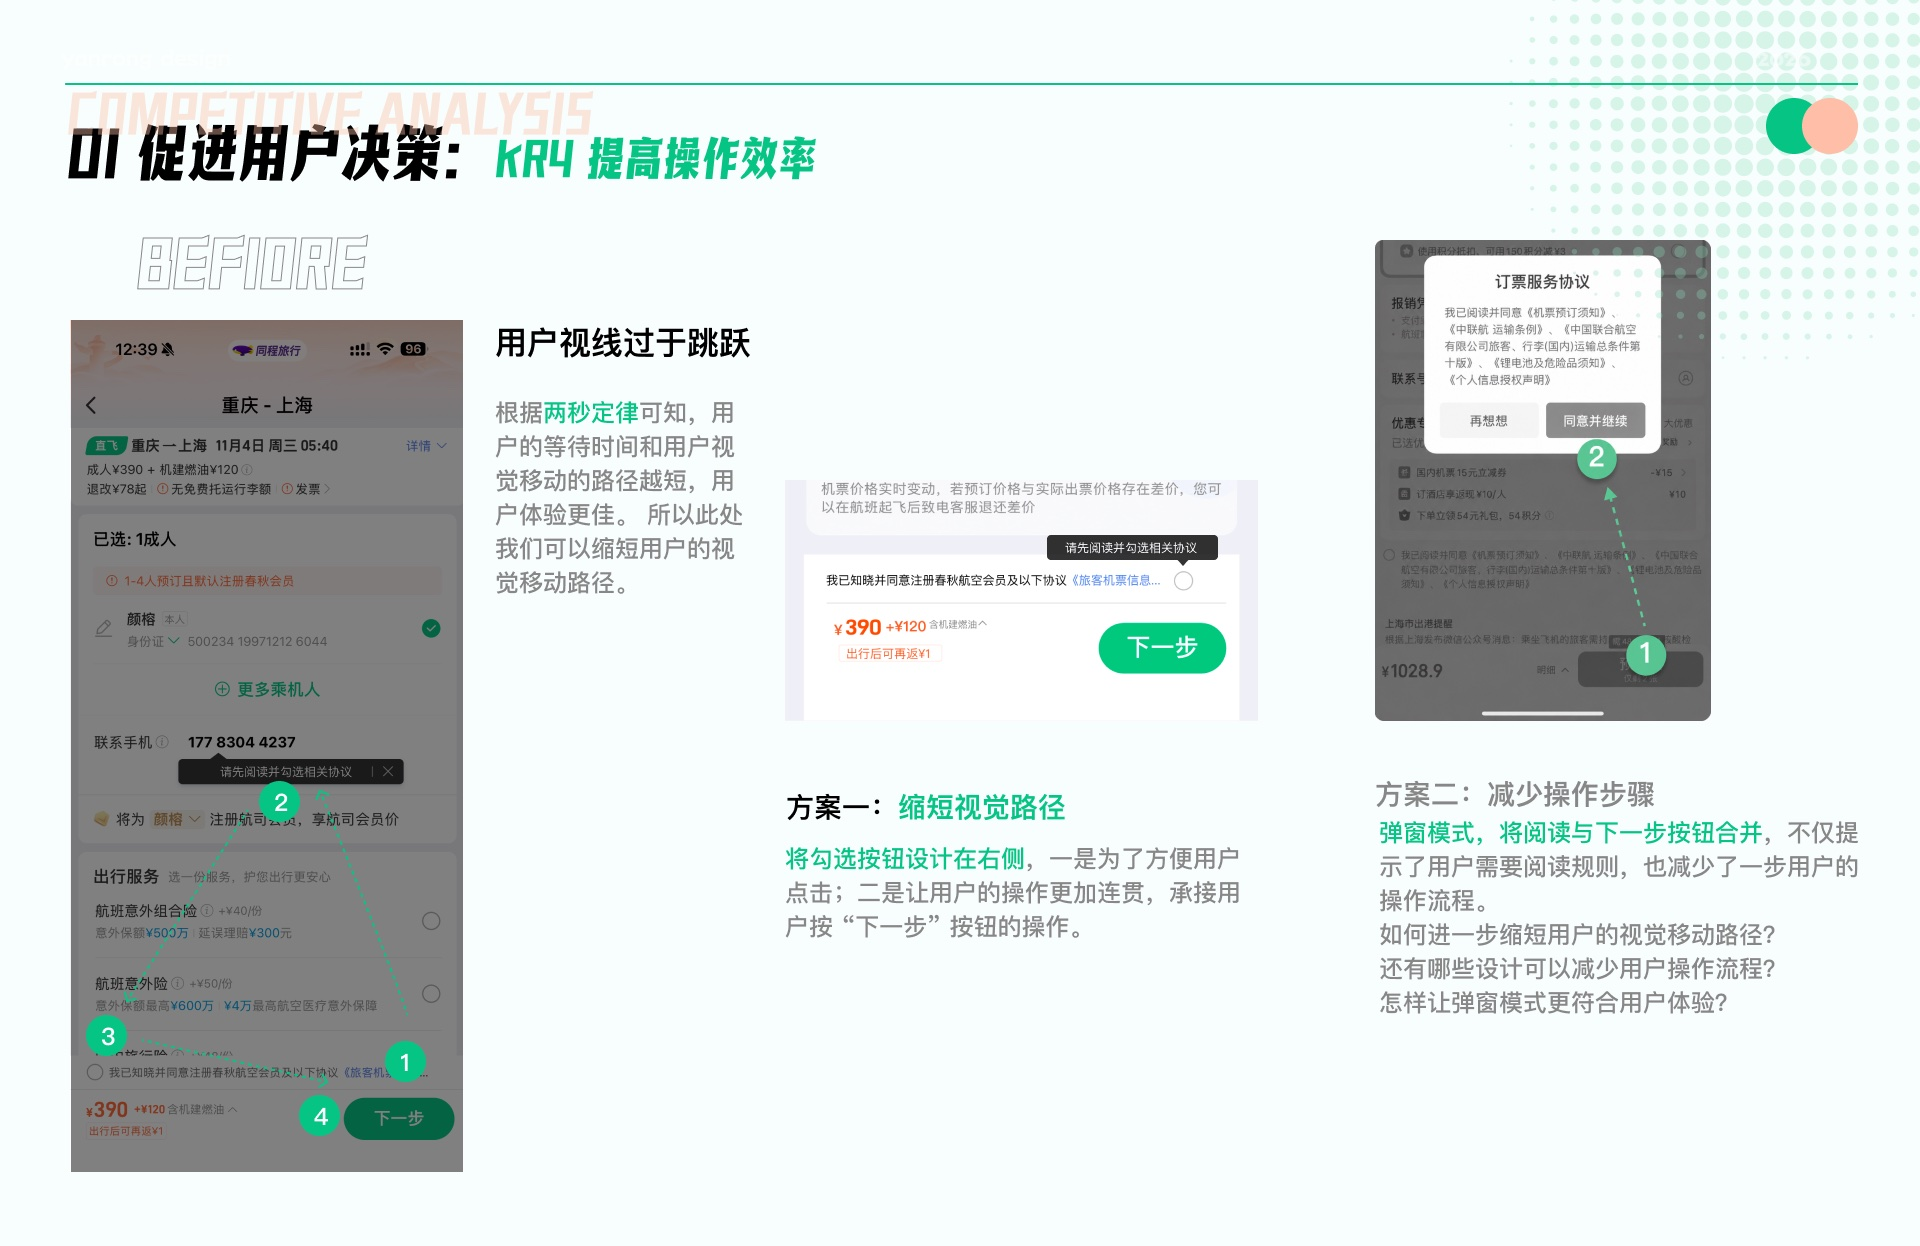
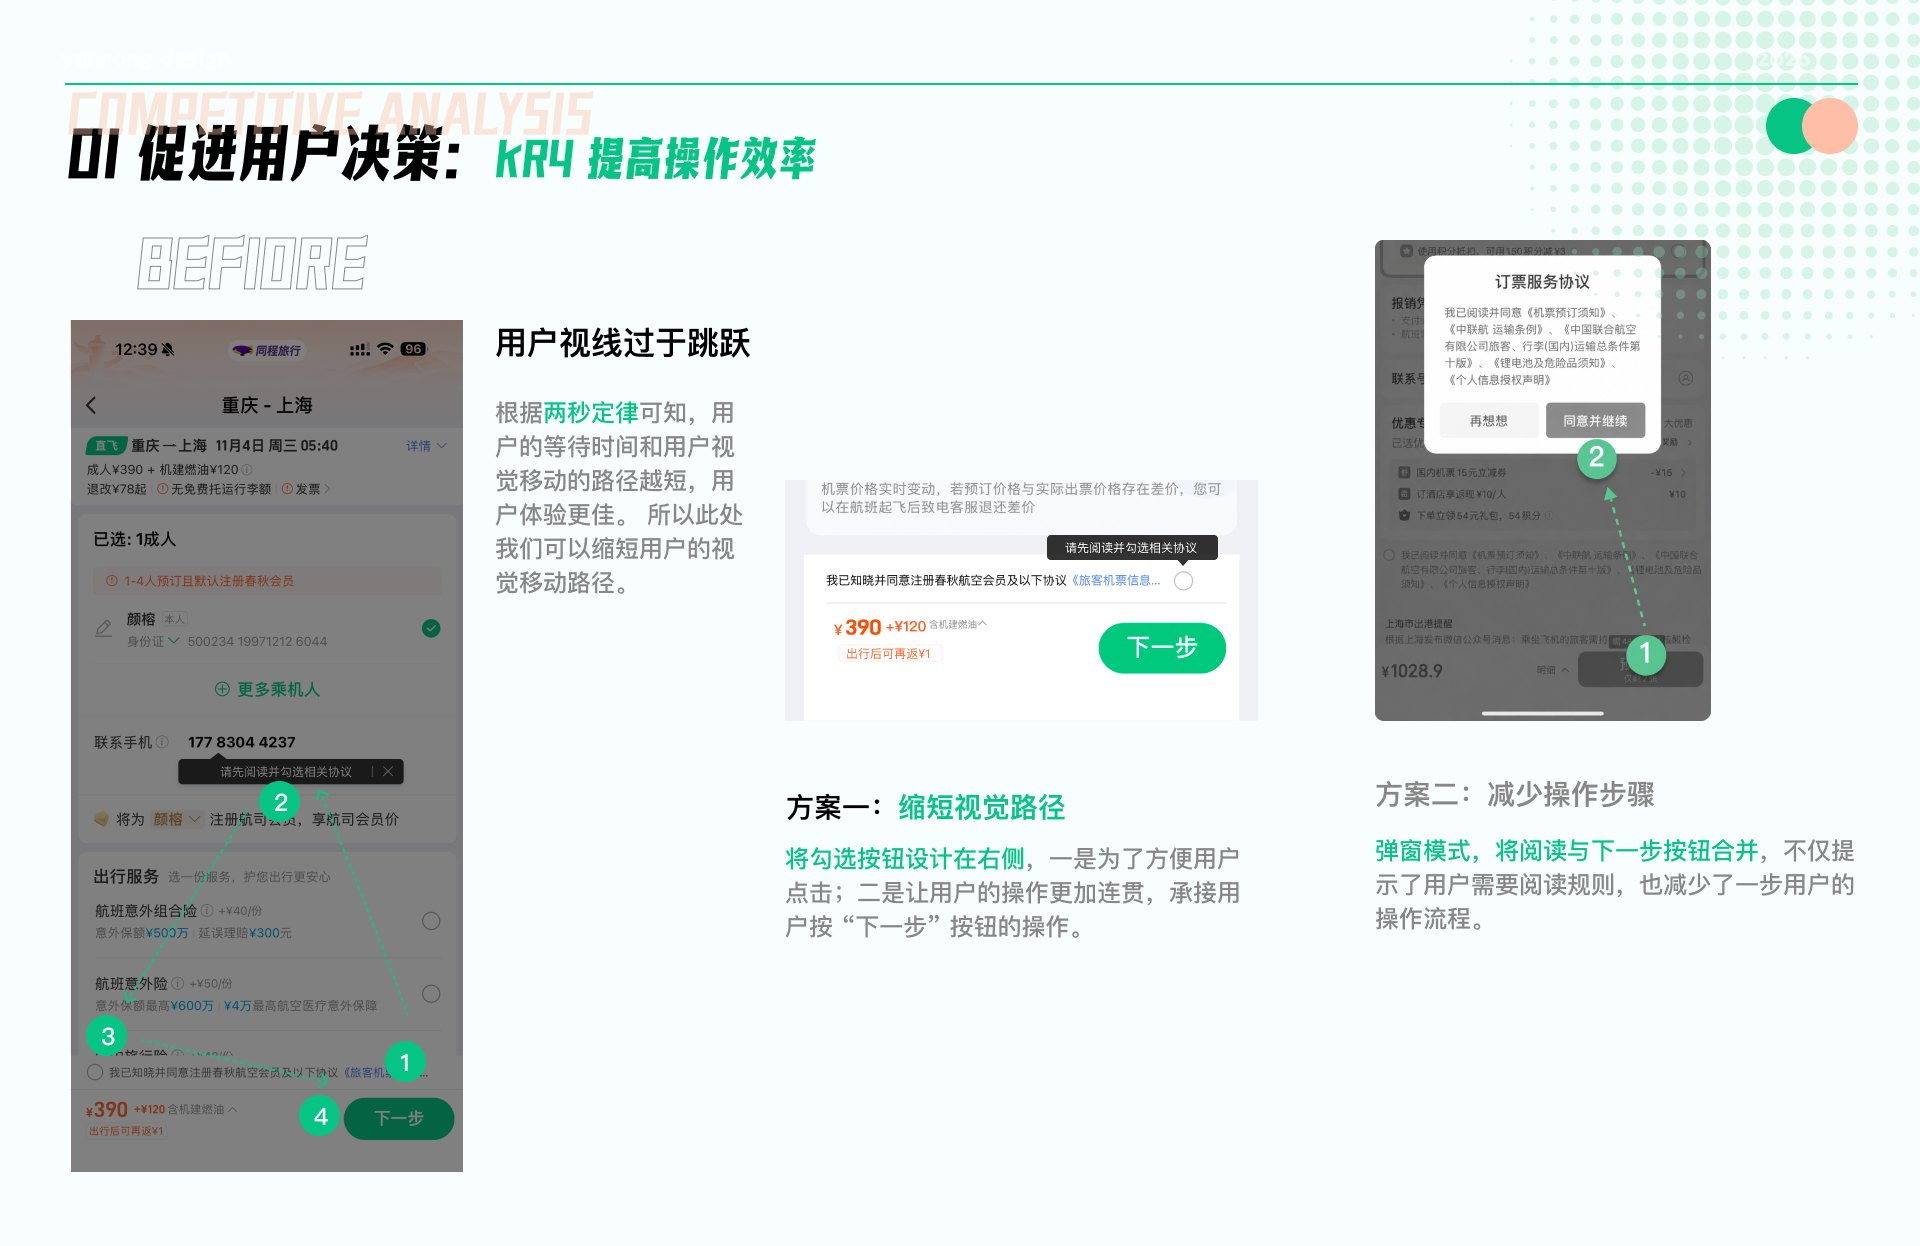
同程旅行: swap in the updated 3.3 (KR4) and 3.4 (新用户) slides

Changed region(s): [[0.7188, 0.6404, 0.9688, 0.8234]]

diff --git a/project-tongcheng.html b/project-tongcheng.html
@@ -63,8 +63,8 @@
       <img src="src/projects/tongcheng/10.jpg?v=1" alt="促进用户决策 · KR2 警告色的使用" width="1920" height="1246" loading="lazy" decoding="async" />
       <img src="src/projects/tongcheng/11.jpg?v=1" alt="促进用户决策 · KR3 文案优化" width="1920" height="1246" loading="lazy" decoding="async" />
       <img src="src/projects/tongcheng/12.jpg?v=1" alt="促进用户决策 · KR3 引导流程可视化" width="1920" height="1246" loading="lazy" decoding="async" />
-      <img src="src/projects/tongcheng/13.jpg?v=1" alt="促进用户决策 · KR4 提高操作效率" width="1920" height="1246" loading="lazy" decoding="async" />
-      <img src="src/projects/tongcheng/14.jpg?v=1" alt="提高用户留存率 · 培养新用户" width="1920" height="1246" loading="lazy" decoding="async" />
+      <img src="src/projects/tongcheng/13.jpg?v=2" alt="促进用户决策 · KR4 提高操作效率" width="1920" height="1246" loading="lazy" decoding="async" />
+      <img src="src/projects/tongcheng/14.jpg?v=2" alt="提高用户留存率 · 培养新用户" width="1920" height="1246" loading="lazy" decoding="async" />
       <img src="src/projects/tongcheng/15.jpg?v=1" alt="提高用户活跃度 · 突出平台优惠" width="1920" height="1246" loading="lazy" decoding="async" />
       <img src="src/projects/tongcheng/16.jpg?v=1" alt="框架调整" width="1920" height="1246" loading="lazy" decoding="async" />
       <img src="src/projects/tongcheng/17.jpg?v=1" alt="方案展示" width="1920" height="1688" loading="lazy" decoding="async" />
